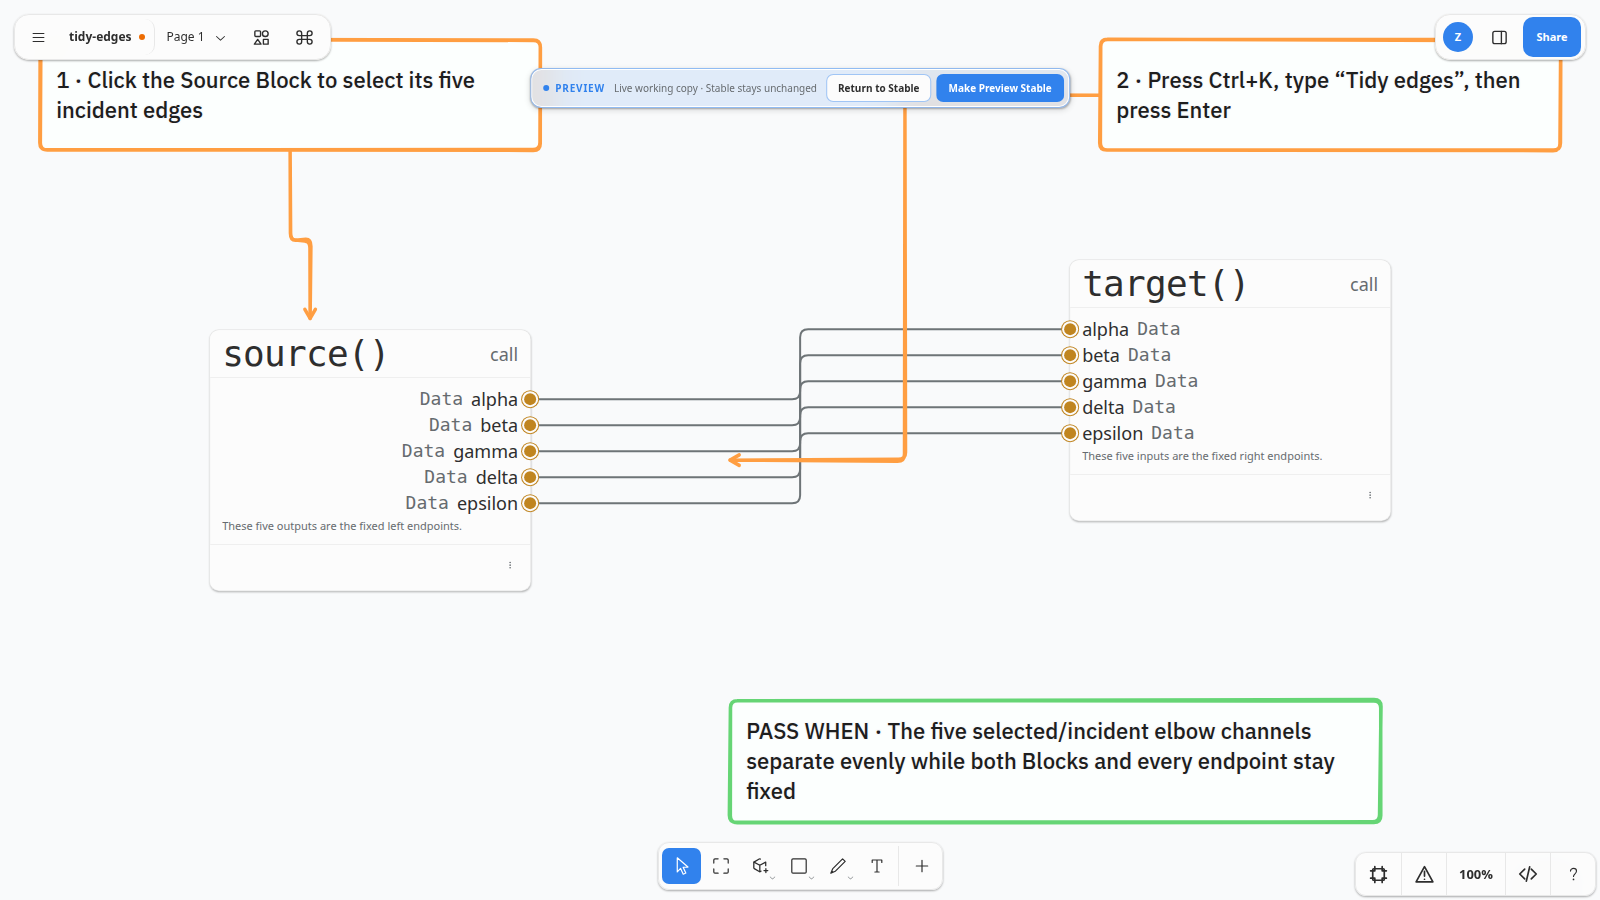
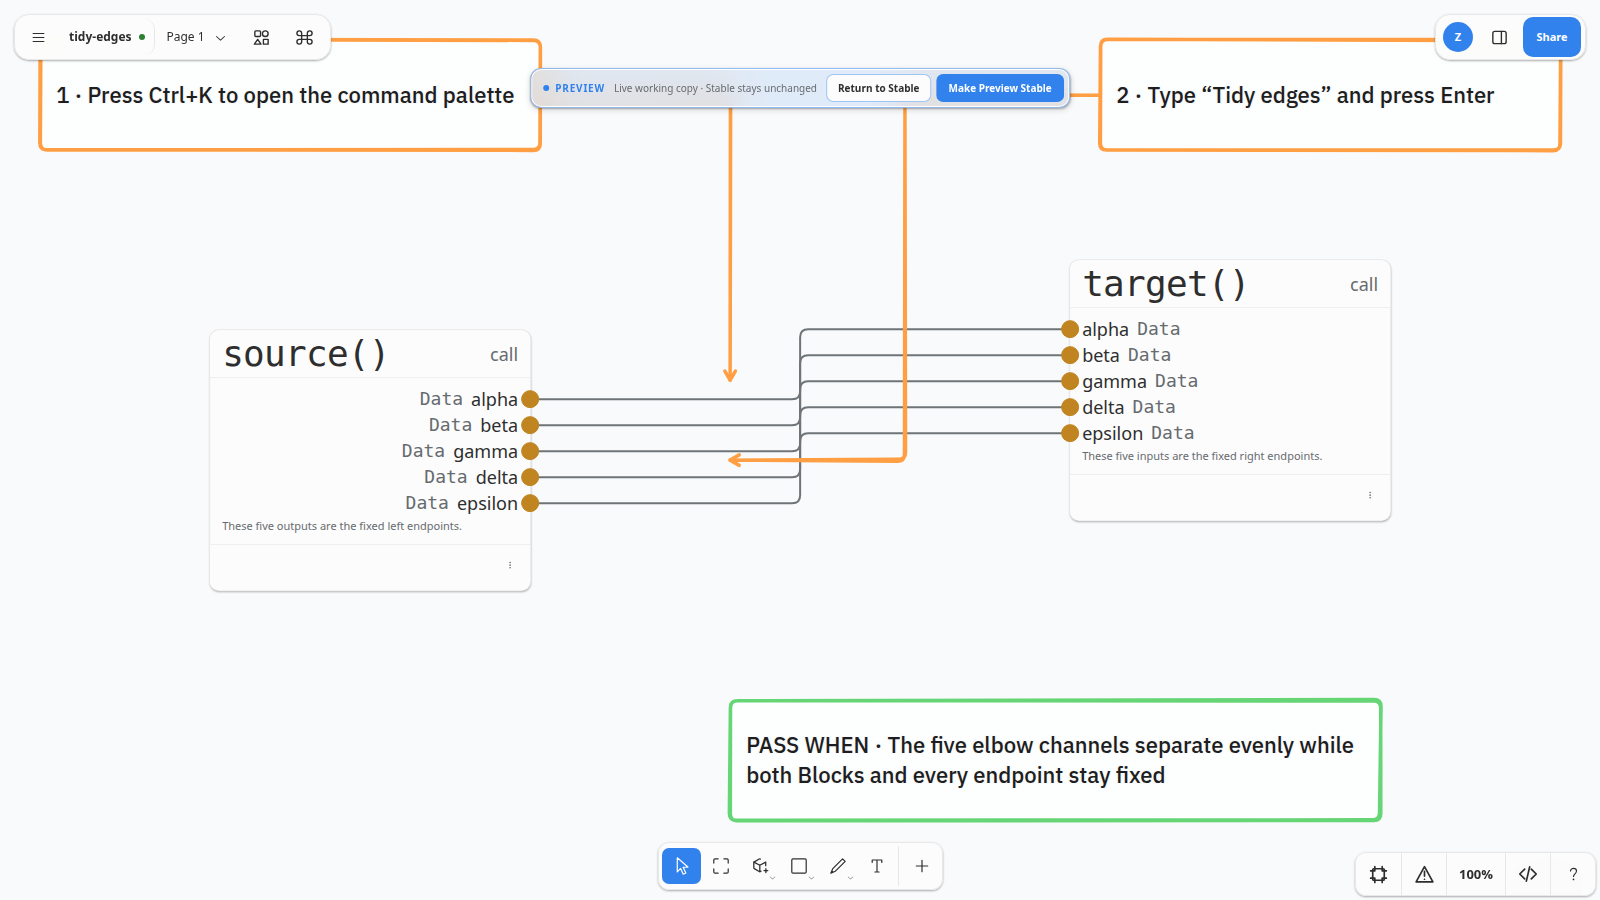
Keep layout review fixtures selection-local

diff --git a/README.md b/README.md
@@ -6,7 +6,7 @@ SystemSketch starts from one deliberately boring datum: the stock tldraw whitebo
 
 The [35-item repo improvement review](docs/repo-improvement-review-2026-09-02.html) ranks the audited gaps, shows the top ten already running with real-browser evidence, and gives each shipped fix and remaining candidate its own accept checkbox and review note. The [follow-up decision gallery](docs/repo-improvement-followup-review-2026-09-02.html) covers the revised future-format workflow plus comments, commands, timer removal, diagnostics, and folder creation with one accept checkbox and note field per change. These are temporary decision surfaces; code and ordinary regression tests remain the living specification.
 
-The [Tidy Edges + Organize Nodes comparison](docs/layout-comparison-2026-09-02.html) runs the ported PyBlocks architecture against 46 synthetic cases: 20 edge-channel fixtures and 26 node-layout fixtures, including six multi-port cases across aligned, offset, and mixed Blocks. The evaluator now rejects stacked/uneven rail cadence as well as endpoint, authored-route, orthogonality, and idempotence regressions. Commands are selection-local: Organize moves only selected Blocks; Tidy changes selected edges plus edges incident to selected Blocks, while unselected edges remain routing constraints. A real-app stress journey proves that contract in a 36-Block / 87-edge view. The companion [`tidy-edges.systemsketch`](sketches/review/tidy-edges.systemsketch) and [`organize-nodes-port-layout.systemsketch`](sketches/review/organize-nodes-port-layout.systemsketch) boards are ready for direct human verification.
+The [Tidy Edges + Organize Nodes comparison](docs/layout-comparison-2026-09-02.html) runs the ported PyBlocks architecture against 46 synthetic cases: 20 edge-channel fixtures and 26 node-layout fixtures, including six multi-port cases across aligned, offset, and mixed Blocks. The evaluator now rejects stacked/uneven rail cadence as well as endpoint, authored-route, orthogonality, and idempotence regressions. Commands are selection-local: Organize moves only selected Blocks; Tidy changes selected edges plus edges incident to selected Blocks, while unselected edges remain routing constraints. A real-app stress journey proves that contract in a 36-Block / 87-edge view. The companion [`tidy-edges-selection.systemsketch`](sketches/review/tidy-edges-selection.systemsketch) and [`organize-nodes-port-layout.systemsketch`](sketches/review/organize-nodes-port-layout.systemsketch) boards are ready for direct human verification.
 
 The [Ctrl+P command-palette implementation gallery](docs/command-palette-ctrl-p-2026-09-02.html) shows the editor-style shortcut opening the real Commands dialog with search focused while suppressing the browser print action. Ctrl+K remains a compatibility alias, Ctrl+F still opens board Find & replace, and the linked review board is ready to drive on the current Preview.
 
